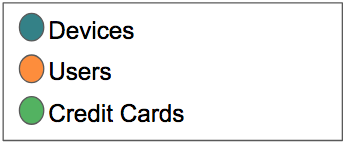
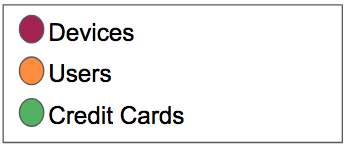
docs

diff --git a/ravelin/rav.html b/ravelin/rav.html
@@ -100,7 +100,7 @@ function tick() {
 // Color leaf nodes orange, and packages white or blue.
 function color(d) {
   return d._children ? "#3182bd" : d.children ? (d.children.some(function(c) { return c.children; })
-      ? "#348187" 
+      ? "#a32251" 
       : "#fd8d3c")
       : "#53b261";
 }
